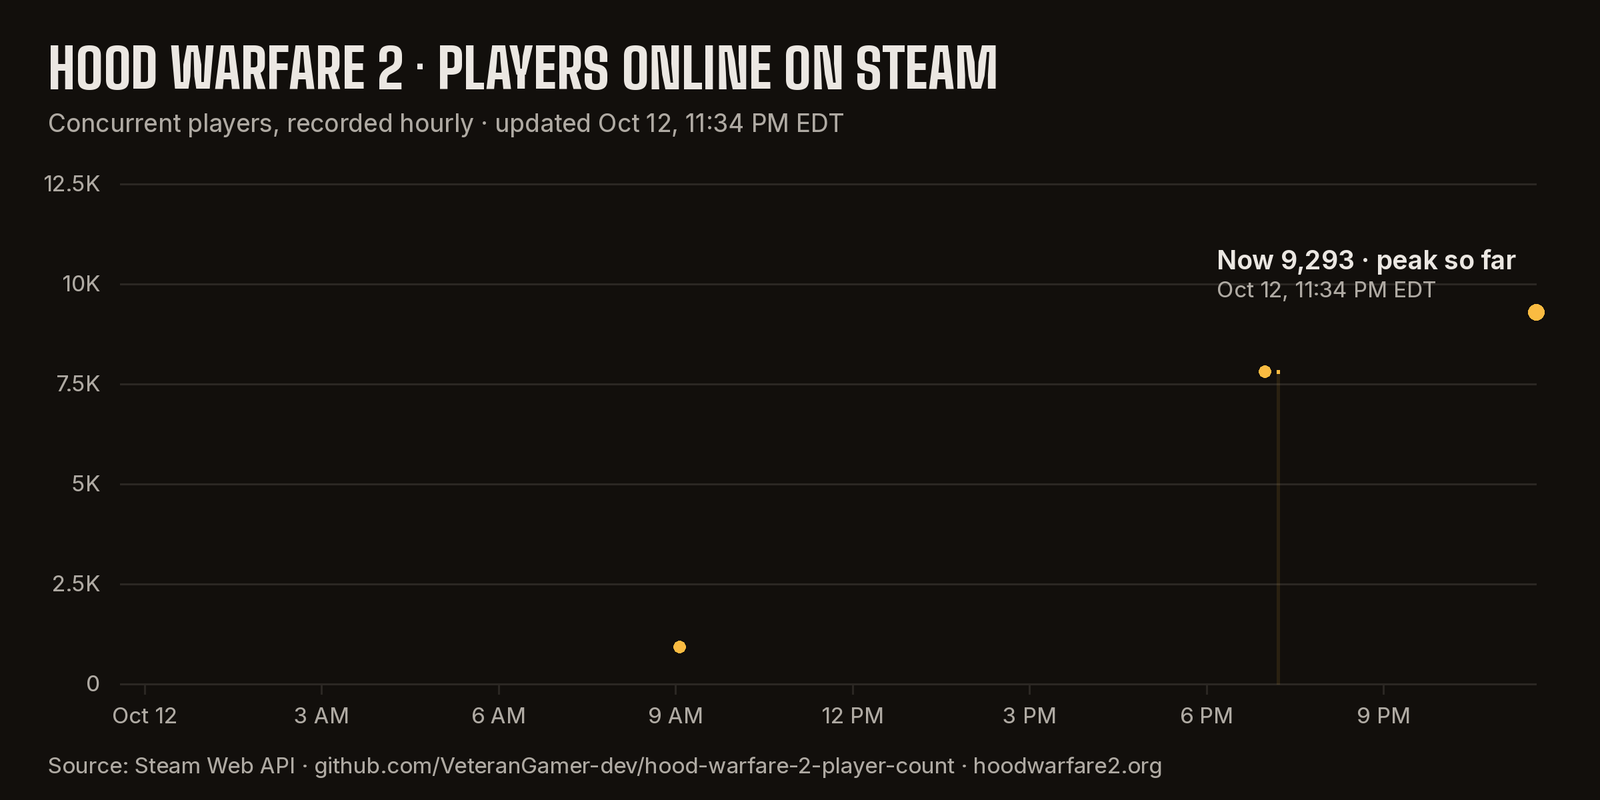
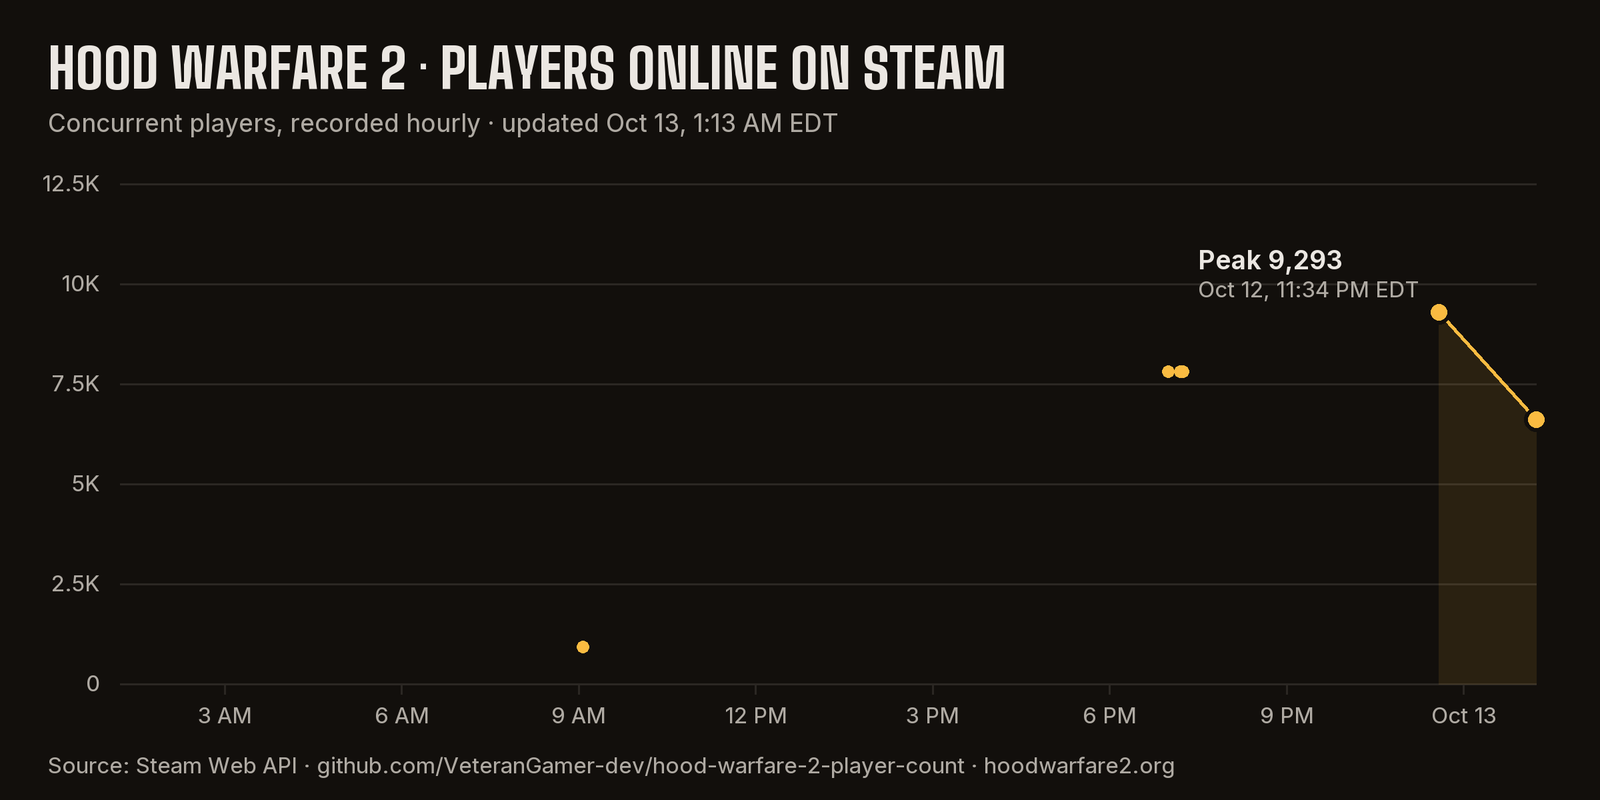
Merge the GitHub and Worker readings; document the Worker
Adds the 03:34 UTC reading (9,293) that only GitHub had, and explains
that the hourly readings now come from the Cloudflare Worker.

diff --git a/README.md b/README.md
@@ -7,11 +7,11 @@ How many people are playing [Hood Warfare 2](https://store.steampowered.com/app/
 <!-- stats:start -->
 | | Players | When (US Eastern) |
 |---|---:|---|
-| Latest reading | **9,293** | Oct 12, 2026, 11:34 PM EDT |
+| Latest reading | **6,603** | Oct 13, 2026, 1:13 AM EDT |
 | Peak in the last 24 hours | 9,293 | Oct 12, 2026, 11:34 PM EDT |
 | Highest reading recorded | 9,293 | Oct 12, 2026, 11:34 PM EDT |
 
-5 readings since Oct 12, 2026, 9:04 AM EDT.
+6 readings since Oct 12, 2026, 9:04 AM EDT.
 <!-- stats:end -->
 
 ## Before this tracker started
@@ -35,7 +35,8 @@ For what players think of the game, which platforms it's on, and the player coun
 | `source` | `steam_api` for automatic hourly readings, `manual` for the two readings taken before the tracker started |
 
 - **Source:** the Steam Web API (`ISteamUserStats/GetNumberOfCurrentPlayers`, app ID 5155360).
-- **How often:** a [GitHub Actions workflow](.github/workflows/record.yml) runs once an hour. GitHub sometimes delays or skips scheduled runs, so expect occasional gaps. Readings more than 3 hours apart aren't joined on the chart.
+- **How often:** a Cloudflare Worker takes a reading every hour at :05 UTC. GitHub's own scheduled runs turned out to be late or skipped too often, so this repo no longer depends on them for the data: a [GitHub Actions workflow](.github/workflows/record.yml) copies everything the Worker has into this CSV and redraws the chart whenever it runs. Readings more than 3 hours apart aren't joined on the chart.
+- **Live copy:** the Worker serves the same data, always up to date, at [data.hoodwarfare2.org/hw2/players.csv](https://data.hoodwarfare2.org/hw2/players.csv) (also [.json](https://data.hoodwarfare2.org/hw2/players.json) and a live [chart](https://data.hoodwarfare2.org/hw2/chart.svg)).
 - **Times on the chart** are US Eastern.
 
 ## Use it
